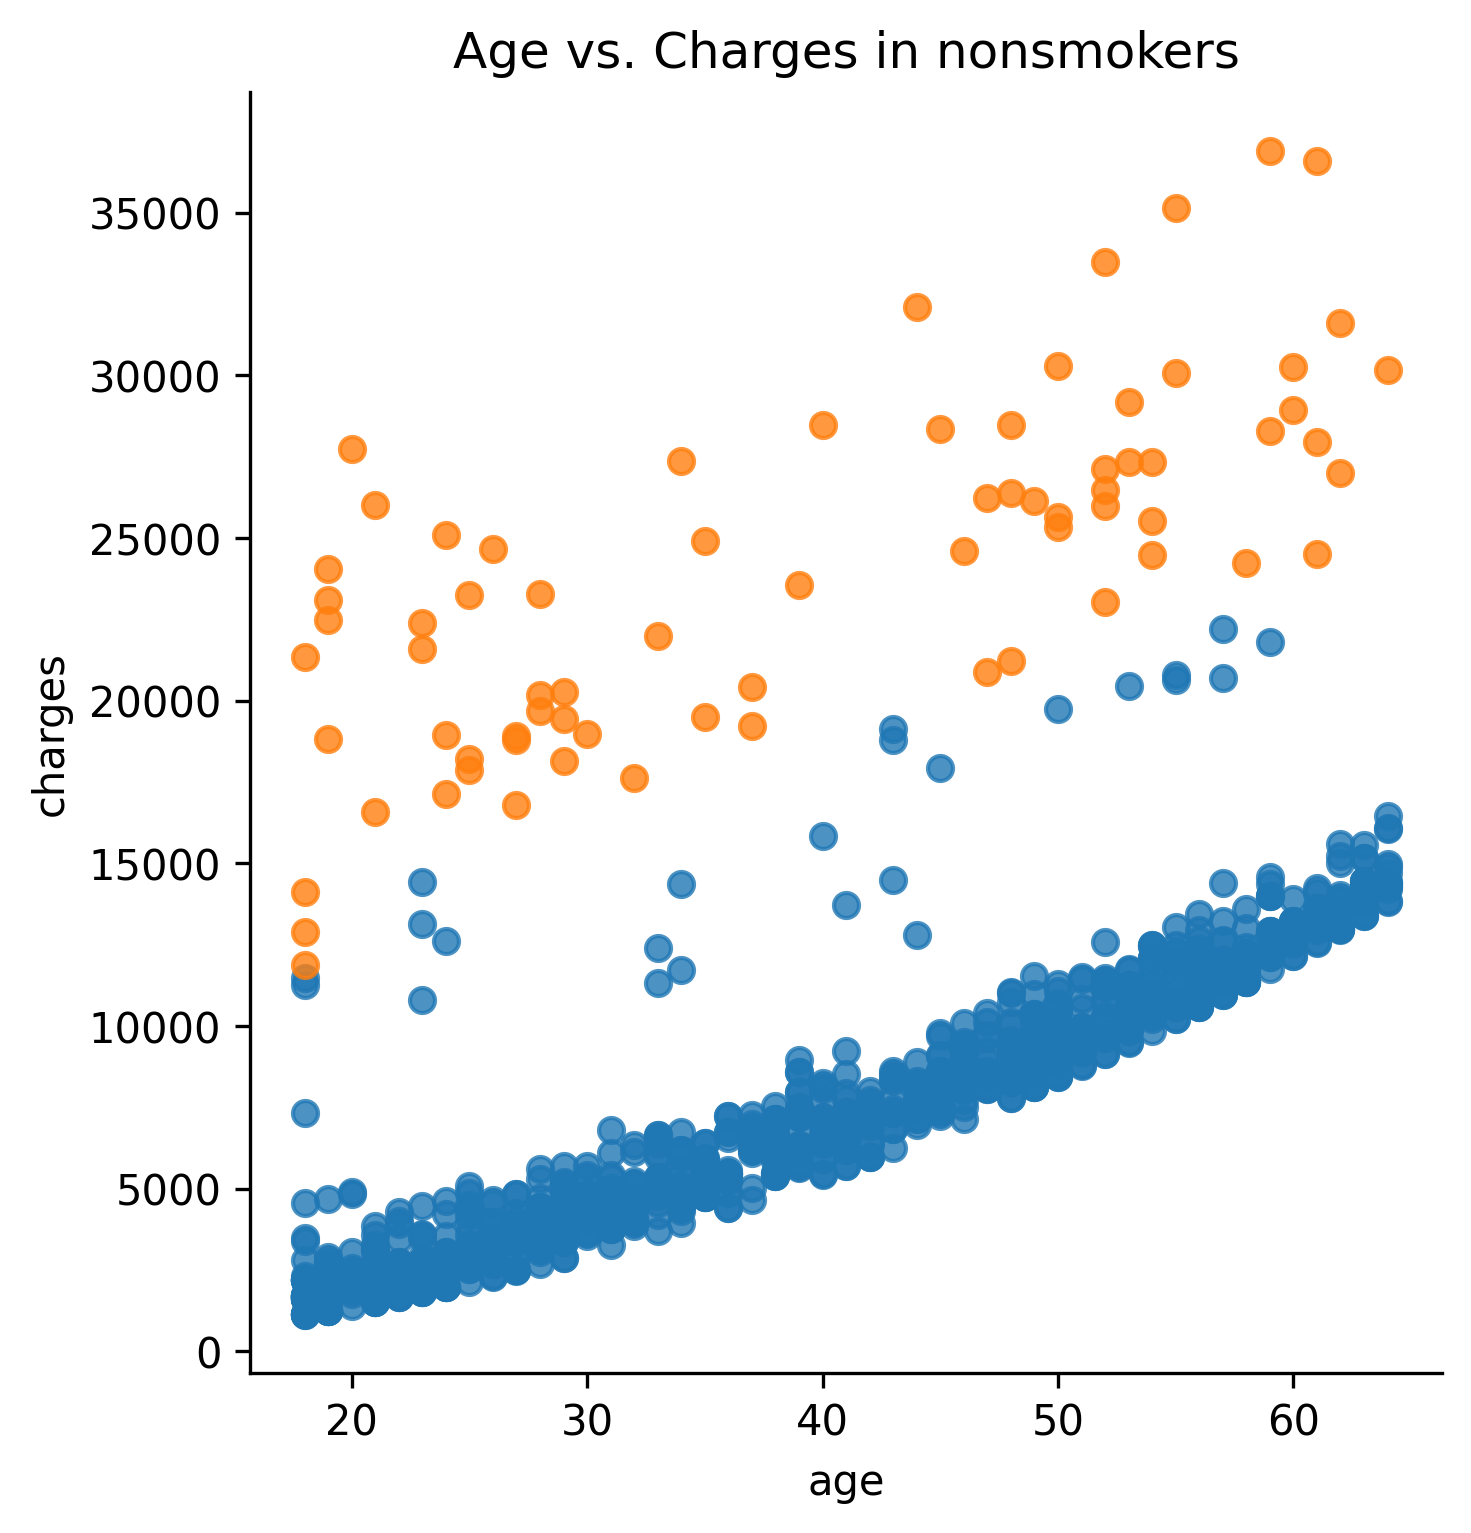
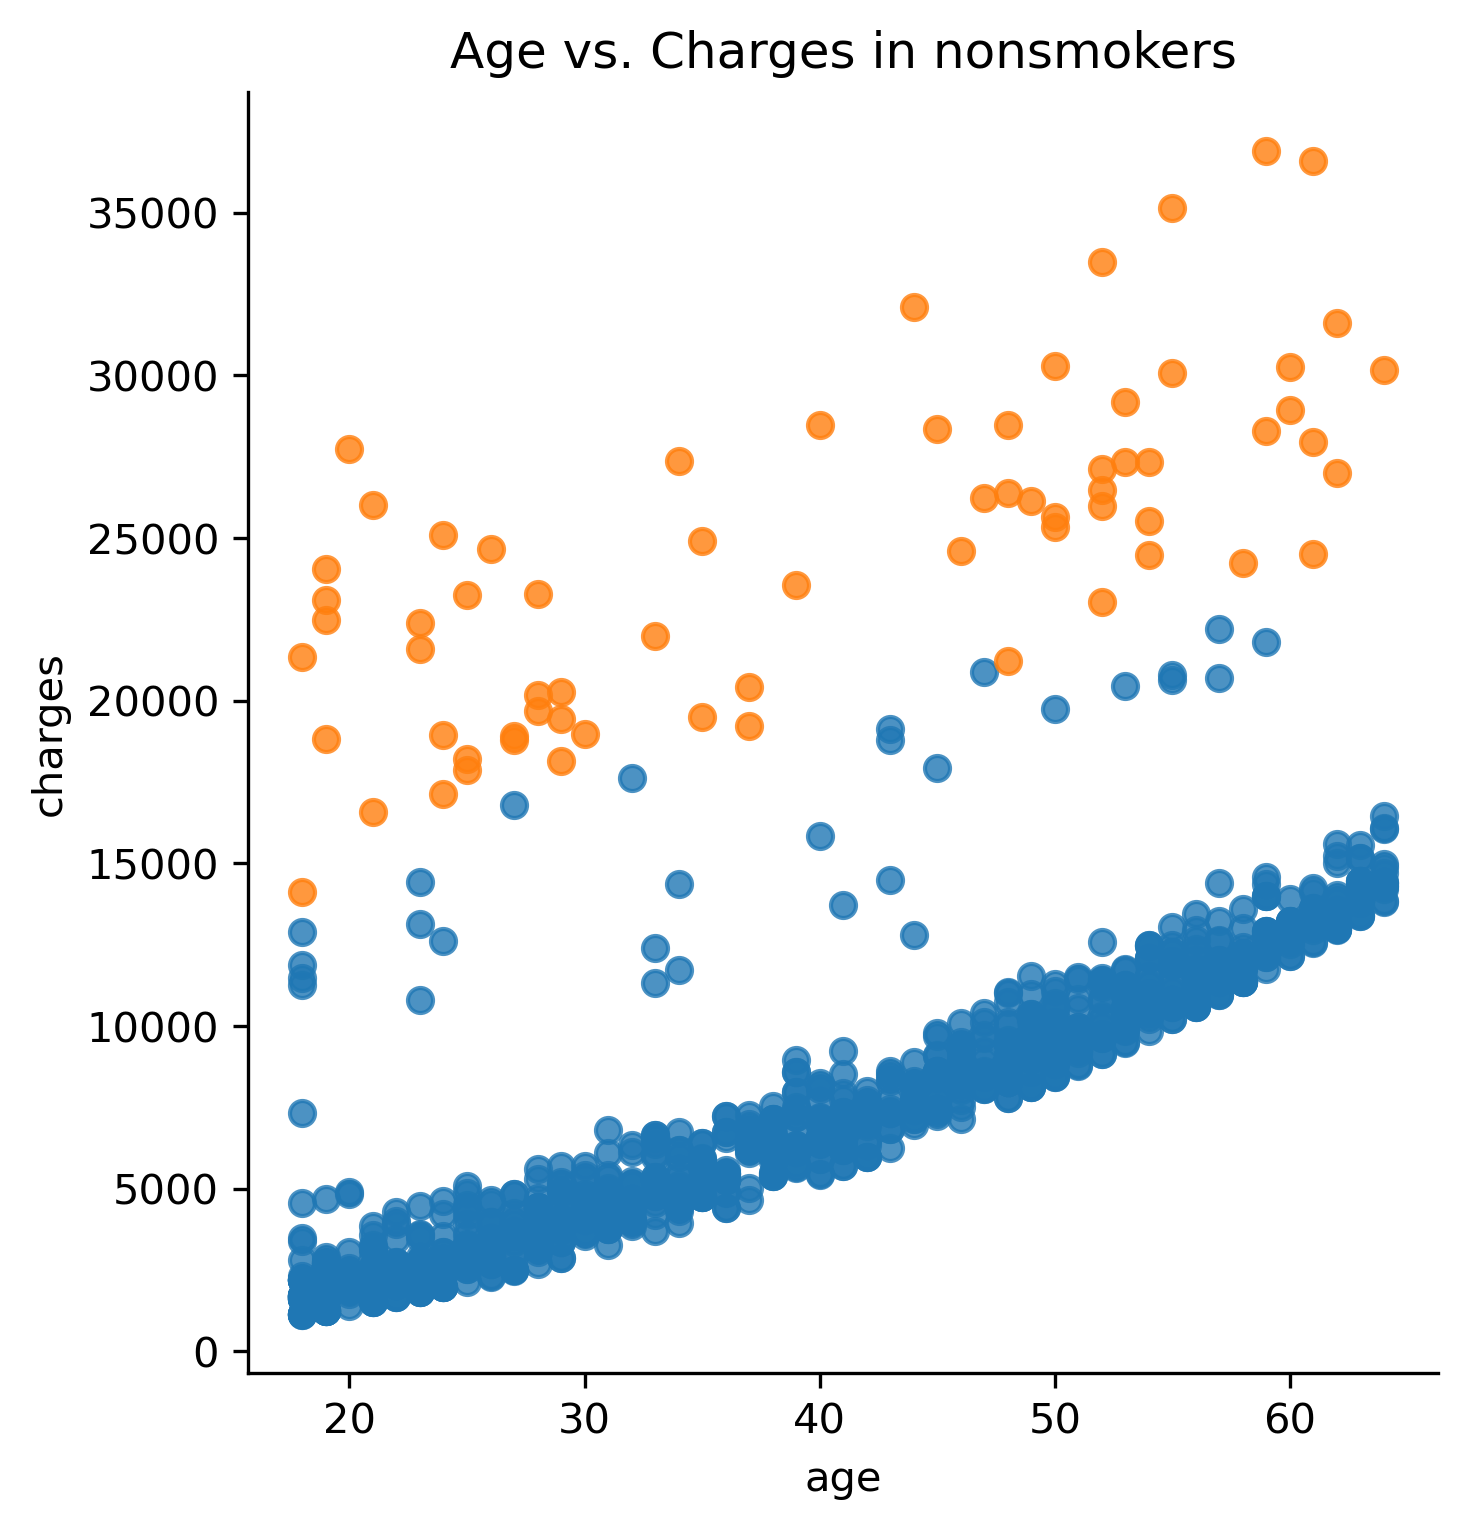
updated plots

diff --git a/cost_lin_reg.py b/cost_lin_reg.py
@@ -81,7 +81,7 @@ def create_obese_smoker_category(X_df):
     ]
     
     category_names = ['obese smokers', 'nonobese smokers', 'obese nonsmokers', 'nonobese nonsmokers']
-    return pd.Series(np.select(conditions, category_names))  
+    return pd.Series(np.select(conditions, category_names), name='grouping')  
   
 # ====================================================================================================================
 # Data preprocessing function without using pipeline
@@ -162,7 +162,11 @@ def sm_lr_model_results_subgrouped(lr_model, X_data, y, y_pred, plot_title, comb
     standardized_residuals = pd.DataFrame(lr_model.get_influence().resid_studentized_internal, columns=['stand_resid'])
     y_pred_series = pd.Series(y_pred, name='y_pred')
     y_series = pd.Series(y, name='y')
-    relevant_data = pd.concat([y_series, y_pred_series, standardized_residuals, grouping], axis=1)
+    
+    # Changed join to 'inner' as the 'grouping' parameter may be larger than other variables like 'y_series'. 'grouping'
+    # may have been created before removing certain samples, like outliers. Join='inner' maps the grouping index to the 
+    # y_series index
+    relevant_data = pd.concat([y_series, y_pred_series, standardized_residuals, grouping], axis=1, join='inner')
         
     # Quantify Heteroscedasticity using Breusch-Pagan test and White test
     bp_test = het_breuschpagan(lr_model.resid, lr_model.model.exog)
@@ -176,6 +180,7 @@ def sm_lr_model_results_subgrouped(lr_model, X_data, y, y_pred, plot_title, comb
     # Convert the grouping variable 'grouping' to a pandas.Categorical object so I can encode each 
     # category to a number (grouping_as_cat.codes) and save the associated category names (grouping_as_cat.categories.tolist())
     if grouping is not None:
+        grouping = relevant_data['grouping']
         grouping_as_cat = grouping.astype('category').cat
         grouping_as_codes = grouping_as_cat.codes
         grouping_categories = grouping_as_cat.categories.tolist()
@@ -401,7 +406,7 @@ sm_lin_reg_1_0, sm_y_pred_1_0, het_results_1_0 = fit_lr_model_results(new_X_1, y
 
 # Plot model with subgrouping
 file_name_1 = '1_bmi_30_feature_grouped'
-sm_lin_reg_1, sm_y_pred_1, het_results_1 = fit_lr_model_results(new_X_1, y, title_1, subgroup=False, save_img=False, filename_unique=file_name_1)
+sm_lin_reg_1, sm_y_pred_1, het_results_1 = fit_lr_model_results(new_X_1, y, title_1, subgroup=True, save_img=False, filename_unique=file_name_1)
 
 # Organize model performance metrics
 summary_df_1 = sm_results_to_df(sm_lin_reg_1.summary())
@@ -658,7 +663,7 @@ smoker_df = orig_features_df.loc['smoker_yes'].to_frame().T
 orig_features_no_smoker = orig_features_df.drop(['smoker_yes'], axis=0)
 
 # Plot coefficients
-dh.plot_coefficient_df(smoker_df, orig_features_no_smoker, new_features_df)
+dh.plot_coefficient_df(smoker_df, orig_features_no_smoker, new_features_df, save_img=False, filename='coeff_vert_6_rem_old_var', save_dir=models_output_dir)
 
 # =======================================================================================
 # Compare performance before and after removing old features
@@ -675,8 +680,7 @@ r_metrics = sm_results_df.loc[['r2', 'r2_adj']]
 het_stats = sm_results_df.loc[['bp_lm_p', 'white_lm_p']]
 
 # Plot model performance metrics
-dh.plot_model_metrics_df(max_e_df, error_metrics, r_metrics, het_stats)
-
+dh.plot_model_metrics_df(max_e_df, error_metrics, r_metrics, het_stats, save_img=False, filename='performance_no_outliers', save_dir=models_output_dir)
 
 # =======================================================================================
 # Outlier Analysis
@@ -688,21 +692,22 @@ dh.plot_model_metrics_df(max_e_df, error_metrics, r_metrics, het_stats)
 # ==========================================================
 # Identify Outliers
 # ==========================================================
-inf = influence(sm_lin_reg_4)
+#inf = influence(sm_lin_reg_4)
+inf = influence(sm_lin_reg_4_2)
 (cooks, d) = inf.cooks_distance
-cooks_cutoff = 4 / (len(cooks) - (new_X_4.shape[1] - 1) - 1) # 0.00301
+cooks_cutoff = 4 / (len(cooks) - (new_X_4_2.shape[1] - 1) - 1) # 0.00301
 
-outlier_df = new_X_4.copy()
+outlier_df = new_X_4_2.copy()
 outlier_df['cooks'] = cooks
 outlier_df['outlier'] = outlier_df['cooks'] > cooks_cutoff
 outlier_dict = {False:'no', True:'yes'}
 outlier_df['outlier'] = outlier_df['outlier'].map(outlier_dict)
 
-num_outliers = outlier_df[outlier_df['outlier'] == 'yes'].shape[0] # 90
-perc_outliers = num_outliers / outlier_df.shape[0] # 0.0672
+num_outliers = outlier_df[outlier_df['outlier'] == 'yes'].shape[0] # 90 -> 85 after removing old variables
+perc_outliers = num_outliers / outlier_df.shape[0] # 0.0672 -> 0.0635 after removing old variables
 outlier_df['true_values'] = y
-outlier_df['y_pred'] = sm_y_pred_4
-outlier_df['stud_resid'] = sm_lin_reg_4.get_influence().resid_studentized_internal
+outlier_df['y_pred'] = sm_y_pred_4_2
+outlier_df['stud_resid'] = sm_lin_reg_4_2.get_influence().resid_studentized_internal
 
 # Visualize Cook's Distances
 plt.title("Cook's Distance Plot")
@@ -827,7 +832,7 @@ fig.tight_layout(h_pad=2) # Increase spacing between plots to minimize text over
 # Subcategory of 4 children has 15% outliers whereas basically all other subcategories range between 5-8%
 # You can also see in 'Categorical Variable Relationships with Target' figure that samples with 4 kids 
 # have a different distribution than the rest
-# However, that only represents 4 outlieres out of 90, so unsurprisingly, further exploration didn't lead anywhere
+# However, that only represents 4 outliers out of 85, so unsurprisingly, further exploration didn't lead anywhere
 
 
 # Inverse of the above graph
@@ -857,12 +862,13 @@ save_filename = 'perc_subcat_by_outlier'
 # ==========================================================
 # Remove outliers and compare models
 # ==========================================================
-merge_newX_y = pd.concat([new_X_4, y, outlier_df['outlier']], axis=1)
+merge_newX_y = pd.concat([new_X_4_2, y, outlier_df['outlier']], axis=1)
 no_outliers_df = merge_newX_y[merge_newX_y['outlier']=='no']
 
 # Reset the index of the no_outliers_df DataFrame to allow for easier combination
 # with other series in future functions
-no_outliers_df.reset_index(drop=True, inplace=True)
+# Don't need this anymore as I changed the pd.concat in sm_lr_model_results_subgrouped() to use an inner join
+# no_outliers_df.reset_index(drop=True, inplace=True)
 
 # Separate target from predictors
 no_outliers_y = no_outliers_df['charges']
@@ -872,7 +878,9 @@ no_outliers_X = no_outliers_df.drop(['charges', 'outlier'], axis=1)
 title_5 = 'removed outliers'
 model_name_5 = 'no_out'
 file_name_5 = '5_no_outliers'
-sm_lin_reg_5, sm_y_pred_5, het_results_5 = fit_lr_model_results(no_outliers_X, no_outliers_y, title_5, subgroup=True, save_img=False, filename_unique=file_name_5)
+sm_lin_reg_5, sm_y_pred_5, het_results_5 = fit_lr_model_results(no_outliers_X, no_outliers_y, title_5, 
+                                                                subgroup=True, ob_smoke_series=ob_smoke_series, 
+                                                                save_img=False, filename_unique=file_name_5)
 
 # Organize model performance metrics
 summary_df_5 = sm_results_to_df(sm_lin_reg_5.summary())
@@ -893,7 +901,7 @@ sm_results_df = pd.concat([sm_results_df, sm_lr_results_5], axis=1)
 # ==========================================================
 inf_5 = influence(sm_lin_reg_5)
 (cooks_5, d) = inf_5.cooks_distance
-cooks_cutoff_5 = 4 / (len(cooks_5) - (no_outliers_X.shape[1] - 1) - 1) # 0.00323
+cooks_cutoff_5 = 4 / (len(cooks_5) - (no_outliers_X.shape[1] - 1) - 1) # 0.00322
 
 outlier_df_5 = no_outliers_X.copy()
 outlier_df_5['cooks'] = cooks_5
@@ -901,19 +909,19 @@ outlier_df_5['outlier'] = outlier_df_5['cooks'] > cooks_cutoff_5
 outlier_dict = {False:'no', True:'yes'}
 outlier_df_5['outlier'] = outlier_df_5['outlier'].map(outlier_dict)
 
-num_outliers_5 = outlier_df_5[outlier_df_5['outlier'] == 'yes'].shape[0] # 29
-perc_outliers_5 = num_outliers_5 / outlier_df_5.shape[0] # 0.0232
+num_outliers_5 = outlier_df_5[outlier_df_5['outlier'] == 'yes'].shape[0] # 29 -> 34 after removing old variables (still 119 total)
+perc_outliers_5 = num_outliers_5 / outlier_df_5.shape[0] # 0.0232 -> 0.0271 after removing old variables
 outlier_df_5['true_values'] = y
 outlier_df_5['y_pred'] = sm_y_pred_5
 outlier_df_5['stud_resid'] = sm_lin_reg_5.get_influence().resid_studentized_internal
 
-# Visualiz Cook's Distances
+# Visualize Cook's Distances
 plt.title("Cook's Distance Plot (#2)")
 plt.stem(range(len(cooks_5)), cooks_5, markerfmt=",")
 plt.plot([0, len(cooks_5)], [cooks_cutoff_5, cooks_cutoff_5], color='darkblue', linestyle='--', label='4 / (N-k-1)')
 plt.xlabel("Observation")
 plt.ylabel("Cook's Distance")
-plt.legend(title="Cook's Distance Cutoff")
+plt.legend(title="Cook's Distance Cutoff", loc="upper left")
 #dh.save_image('cooks_dist_plot_2', models_output_dir)
 plt.show()
 
@@ -941,7 +949,7 @@ no_outliers_df_2 = merge_newX_y_2[merge_newX_y_2['outlier']=='no']
 
 # Reset the index of the no_outliers_df DataFrame to allow for easier combination
 # with other series in future functions
-no_outliers_df_2.reset_index(drop=True, inplace=True)
+#no_outliers_df_2.reset_index(drop=True, inplace=True)
 
 # Separate target from predictors
 no_outliers_y_2 = no_outliers_df_2['charges']
@@ -951,7 +959,9 @@ no_outliers_X_2 = no_outliers_df_2.drop(['charges', 'outlier'], axis=1)
 title_6 = 'removed outliers x2'
 model_name_6 = 'no_out_2'
 file_name_6 = '6_no_outliers_2'
-sm_lin_reg_6, sm_y_pred_6, het_results_6 = fit_lr_model_results(no_outliers_X_2, no_outliers_y_2, title_6, subgroup=True, save_img=False, filename_unique=file_name_6)
+sm_lin_reg_6, sm_y_pred_6, het_results_6 = fit_lr_model_results(no_outliers_X_2, no_outliers_y_2, title_6, 
+                                                                ob_smoke_series=ob_smoke_series, subgroup=True, 
+                                                                save_img=False, filename_unique=file_name_6)
 
 # Organize model performance metrics
 summary_df_6 = sm_results_to_df(sm_lin_reg_6.summary())
@@ -983,7 +993,7 @@ ax.set_xlabel('H Leverage')
 ax.set_ylabel('Studentized Residuals')
 ax.set_title('Influence Plot Before Removing Outliers')
 plt.tight_layout()
-dh.save_image('influence_plot_1', models_output_dir)
+#dh.save_image('influence_plot_1', models_output_dir)
 plt.show()
 
 # =============================
@@ -998,7 +1008,7 @@ ax.set_xlabel('H Leverage')
 ax.set_ylabel('Studentized Residuals')
 ax.set_title('Influence Plot After Removing Outliers (first time)')
 plt.tight_layout()
-dh.save_image('influence_plot_2', models_output_dir)
+#dh.save_image('influence_plot_2', models_output_dir)
 plt.show()
 
 # =============================
